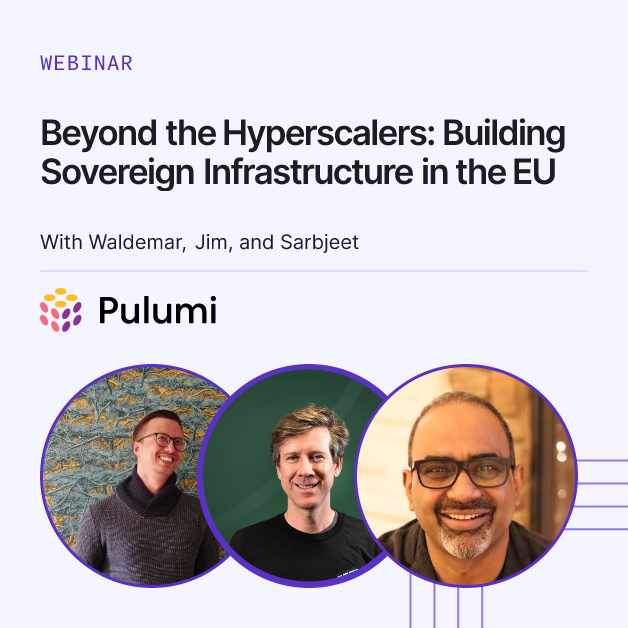
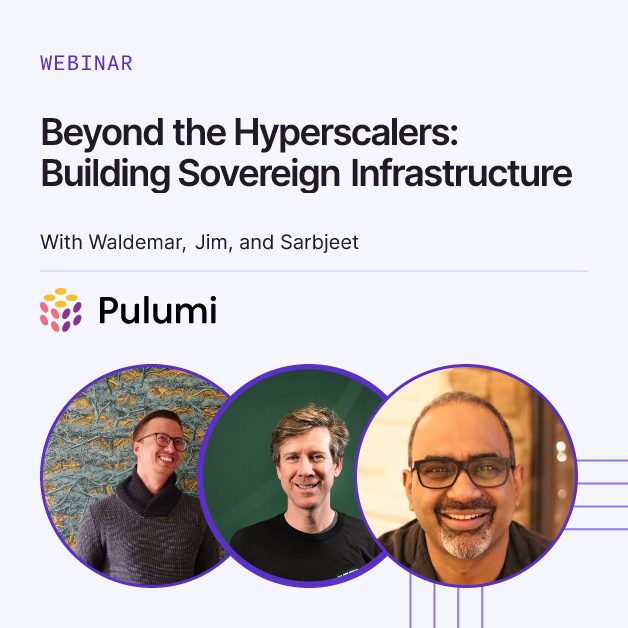
Events: drop 'in the EU' from the sovereignty panel title
The panel is not EU-only: one panelist left AWS for cost and stayed in North
America, and the central question — does putting data in your own country's
region actually protect you — applies anywhere. 'in the EU' narrowed the
audience and made North American viewers self-select out.

Title now fits the 60-char limit, so allow_long_title is gone. Meta cards
re-rendered from the saved config in all five sizes.

Changed region(s): [[0.0605, 0.1815, 0.9076, 0.3328]]

diff --git a/content/events/beyond-the-hyperscalers-sovereignty-panel/index.md b/content/events/beyond-the-hyperscalers-sovereignty-panel/index.md
@@ -1,7 +1,6 @@
 ---
 # Name of the event, <= 60 characters
-title: "Beyond the Hyperscalers: Building Sovereign Infrastructure in the EU"
-allow_long_title: true
+title: "Beyond the Hyperscalers: Building Sovereign Infrastructure"
 meta_desc: A live panel on cloud sovereignty as an architecture decision. Who is leaving the hyperscalers, why, and when staying is the right call.
 meta_image: /events/beyond-the-hyperscalers-sovereignty-panel/meta.png
 meta_image_square: /events/beyond-the-hyperscalers-sovereignty-panel/meta-square.png
